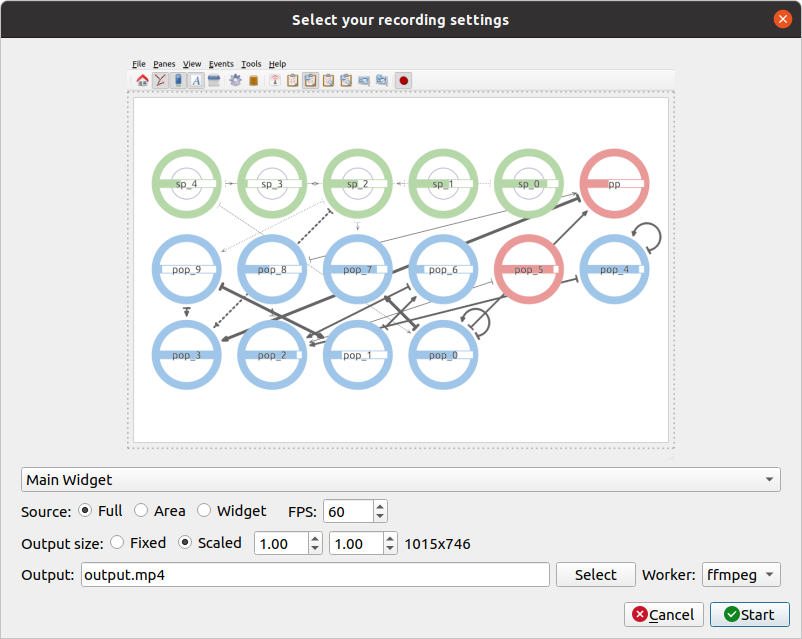
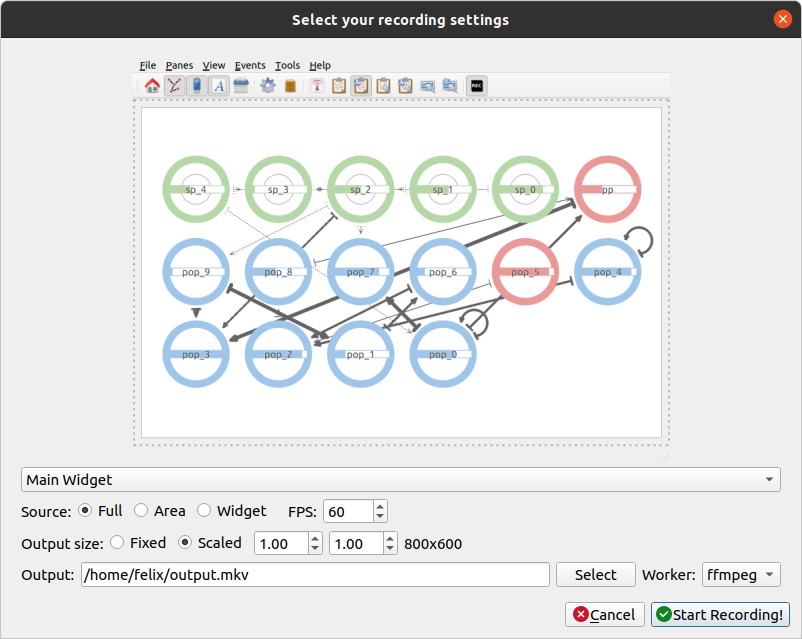
Update to version 0.7.5.

diff --git a/source/conf.py b/source/conf.py
@@ -26,7 +26,7 @@ author = 'URJC Universidad Rey Juan Carlos'
 # The short X.Y version
 version = ''
 # The full version, including alpha/beta/rc tags
-release = '0.7.4'
+release = '0.7.5'
 
 
 # -- General configuration ---------------------------------------------------
@@ -196,7 +196,7 @@ latex_maketitle = r'''
 \begin{center}
   \includegraphics[width=6cm,height=6cm]{neuroscheme.png}\\[8ex]
   {\Huge NeuroScheme Documentation}\\[4ex]
-  {\Large Version 0.7.4}\\[4ex]
+  {\Large Version 0.7.5}\\[4ex]
   {\Large F\'{e}lix de las Pozas \'{A}lvarez}\\[4ex]
   {\Large February 2022}\\[16ex]
   {\Large Visualization \& Graphics Lab, Universidad Rey Juan Carlos}\\[4ex]

diff --git a/source/01-Introduction.rst b/source/01-Introduction.rst
@@ -4,7 +4,7 @@ NeuroScheme Introduction
 
 **NeuroScheme** is a visual exploratory framework that facilitates the process of knowledge extraction from complex neural scenes. This framework contains a multilevel structure, following the different organizational levels of the brain. Schematic or iconic symbols have been designed to portray the entities at each level, providing graphical representations that emphasize relevant features while hiding less important information. These schematic views, together with a multilevel organization, allow the exploration of the brain at different scales, combining in the same view different levels of abstraction whose entities can be either schematically represented (at different abstraction levels) or geometrically depicted at the finest level of detail.
 
-This documentation is for NeuroScheme version 0.7.4 that can be obtained from the homepage.
+This documentation is for NeuroScheme version 0.7.5 that can be obtained from the homepage.
 
 --------------
 External Links
@@ -115,7 +115,7 @@ When Using a docker image replace the folder **$(pwd)/neuroscheme-example-data**
 
    xhost +local:docker
    # Pull the image
-   docker pull vglab/neuroscheme:0.7.4-nvidia-ubuntu-16.04
+   docker pull vglab/neuroscheme:0.7.5-nvidia-ubuntu-16.04
    # Download example data
    mkdir neuroscheme-example-data && cd neuroscheme-example-data
    wget https://vg-lab.es/apps/NeuroScheme/example-data/neuroscheme-congen-example-data.json
@@ -123,7 +123,7 @@ When Using a docker image replace the folder **$(pwd)/neuroscheme-example-data**
    wget http://neuromorpho.org/dableFiles/allen%20cell%20types/CNG%20version/H16-03-001-01-09-01_559391771_m.CNG.swc
    cd ..
    # Run cortex example
-   docker run --gpus 1 -ti --rm -e DISPLAY -v /tmp/.X11-unix:/tmp/.X11-unix -v /etc/machine-id:/etc/machine-id -v $(pwd)/neuroscheme-example-data:/data  --privileged vglab/neuroscheme:0.7.4-nvidia-ubuntu-16.04 /usr/bin/NeuroScheme -d cortex -xml /data/neuroscheme-cortex-example-data.xml
+   docker run --gpus 1 -ti --rm -e DISPLAY -v /tmp/.X11-unix:/tmp/.X11-unix -v /etc/machine-id:/etc/machine-id -v $(pwd)/neuroscheme-example-data:/data  --privileged vglab/neuroscheme:0.7.5-nvidia-ubuntu-16.04 /usr/bin/NeuroScheme -d cortex -xml /data/neuroscheme-cortex-example-data.xml
    # Run congen example
-   docker run --gpus 1 -ti --rm -e DISPLAY -v /tmp/.X11-unix:/tmp/.X11-unix -v /etc/machine-id:/etc/machine-id -v $(pwd)/neuroscheme-example-data:/data  --privileged vglab/neuroscheme:0.7.4-nvidia-ubuntu-16.04 /usr/bin/NeuroScheme -d congen --json /data/neuroscheme-congen-example-data.json
+   docker run --gpus 1 -ti --rm -e DISPLAY -v /tmp/.X11-unix:/tmp/.X11-unix -v /etc/machine-id:/etc/machine-id -v $(pwd)/neuroscheme-example-data:/data  --privileged vglab/neuroscheme:0.7.5-nvidia-ubuntu-16.04 /usr/bin/NeuroScheme -d congen --json /data/neuroscheme-congen-example-data.json
 

diff --git a/source/02-NeuroSchemeUserInterface.rst b/source/02-NeuroSchemeUserInterface.rst
@@ -133,7 +133,7 @@ The recording feature can be activated using the **Tools** menu or by clicking t
 
    Recorder configuration.
 
-The recorder will generate a mp4 video if the media application **ffmpeg** is detected and available, if not the generated output will be individual frames. The **frames per second** of the output can be specified here. The user can choose explicilty which worker (video or frames) to use to generate the output in the advanced configuration dialog (:numref:`figB`) (enabled using the **Advanced recorder options** checkbox in the **Tools** menu).
+The recorder will generate a Matroska MKV video if the media application **ffmpeg** is detected and available, if not the generated output will be individual frames. The **frames per second** of the output can be specified here. The user can choose explicilty which worker (video or frames) to use to generate the output in the advanced configuration dialog (:numref:`figB`) (enabled using the **Advanced recorder options** checkbox in the **Tools** menu).
 
 .. _figB:
 
